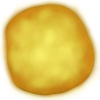
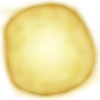
svetlejsi asteroid

diff --git a/Application/Core/Scene/Controls/Implementations/OverlayControl.cs b/Application/Core/Scene/Controls/Implementations/OverlayControl.cs
@@ -20,7 +20,7 @@ namespace Orbit.Core.Scene.Controls.Implementations
         {
             asteroid = parent;
             maxHeatDistance = PlayerBaseLocation.GetBaseLocation(PlayerPosition.LEFT).Top - 150;
-            minHeatDistance = SharedDef.ORBIT_AREA.Bottom;
+            minHeatDistance = SharedDef.ORBIT_AREA.Bottom + 50;
         }
 
         protected override void InitControl(ISceneObject me)
@@ -36,7 +36,7 @@ namespace Orbit.Core.Scene.Controls.Implementations
             if (asteroid.Center.Y < minHeatDistance || asteroid.Center.Y > maxHeatDistance)
                 return;
 
-            meTransparent.Opacity = FastMath.LinearInterpolate(0.3f, 1f, Math.Min((float)((asteroid.Center.Y - minHeatDistance) / (maxHeatDistance - minHeatDistance)), 1));
+            meTransparent.Opacity = FastMath.LinearInterpolate(0.5f, 1f, Math.Min((float)((asteroid.Center.Y - minHeatDistance) / (maxHeatDistance - minHeatDistance)), 1));
         }
     }
 }
